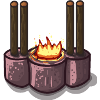
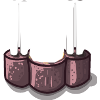
Only apply player's tint to base of Firetower

Changed region(s): [[0.09, 0.0, 0.87, 0.63]]

diff --git a/src/main/java/view/TowerView.java b/src/main/java/view/TowerView.java
@@ -15,7 +15,7 @@ import TowerDefense.TowerProperty;
 
 public abstract class TowerView {
 	protected Tower tower;
-	protected Sprite towerSprite;
+	protected Sprite towerSprite, towerFixedSprite;
 	protected Sprite attackSprite;
 	protected Line attackLine;
 	protected GraphicEntityModule graphics;
@@ -38,9 +38,13 @@ public abstract class TowerView {
 
 	protected void commitSprites() {
 		boardGroup.add(towerSprite);
+		if (towerFixedSprite != null)
+			boardGroup.add(towerFixedSprite);
 		boardGroup.add(attackSprite);
 		if (attackLine != null) boardGroup.add(attackLine);
 		graphics.commitEntityState(0, boardGroup, towerSprite);
+		if (towerFixedSprite != null)
+			graphics.commitEntityState(0, towerFixedSprite);
 	}
 
 	public void updateTooltip() {
@@ -63,5 +67,7 @@ public abstract class TowerView {
 			return;
 		upgradeLevel++;
 		this.towerSprite.setImage(spriteFileBaseName + upgradeLevel + ".png");
+		if (towerFixedSprite != null)
+			this.towerFixedSprite.setImage(spriteFileBaseName + "Fixed" + upgradeLevel + ".png");
 	}
 }

diff --git a/src/main/java/view/FireTowerView.java b/src/main/java/view/FireTowerView.java
@@ -11,6 +11,7 @@ public class FireTowerView extends TowerView {
 
 	public FireTowerView(Tower tower, Group boardGroup, GraphicEntityModule graphics, TooltipModule tooltips) {
 		super(tower, boardGroup, graphics, tooltips, "fireTower");
+		towerFixedSprite = Utils.createTowerSprite(graphics, "fireTowerFixed" + upgradeLevel + ".png", tower.getTile().getX(), tower.getTile().getY());
 		attackSprite = graphics.createSprite().setImage("fireTowerAttack.png").setAlpha(0).setScale(3);
 		attackSprite.setX(BoardView.CELL_SIZE * tower.getTile().getX() - BoardView.CELL_SIZE);
 		attackSprite.setY(BoardView.CELL_SIZE * tower.getTile().getY() - BoardView.CELL_SIZE);
